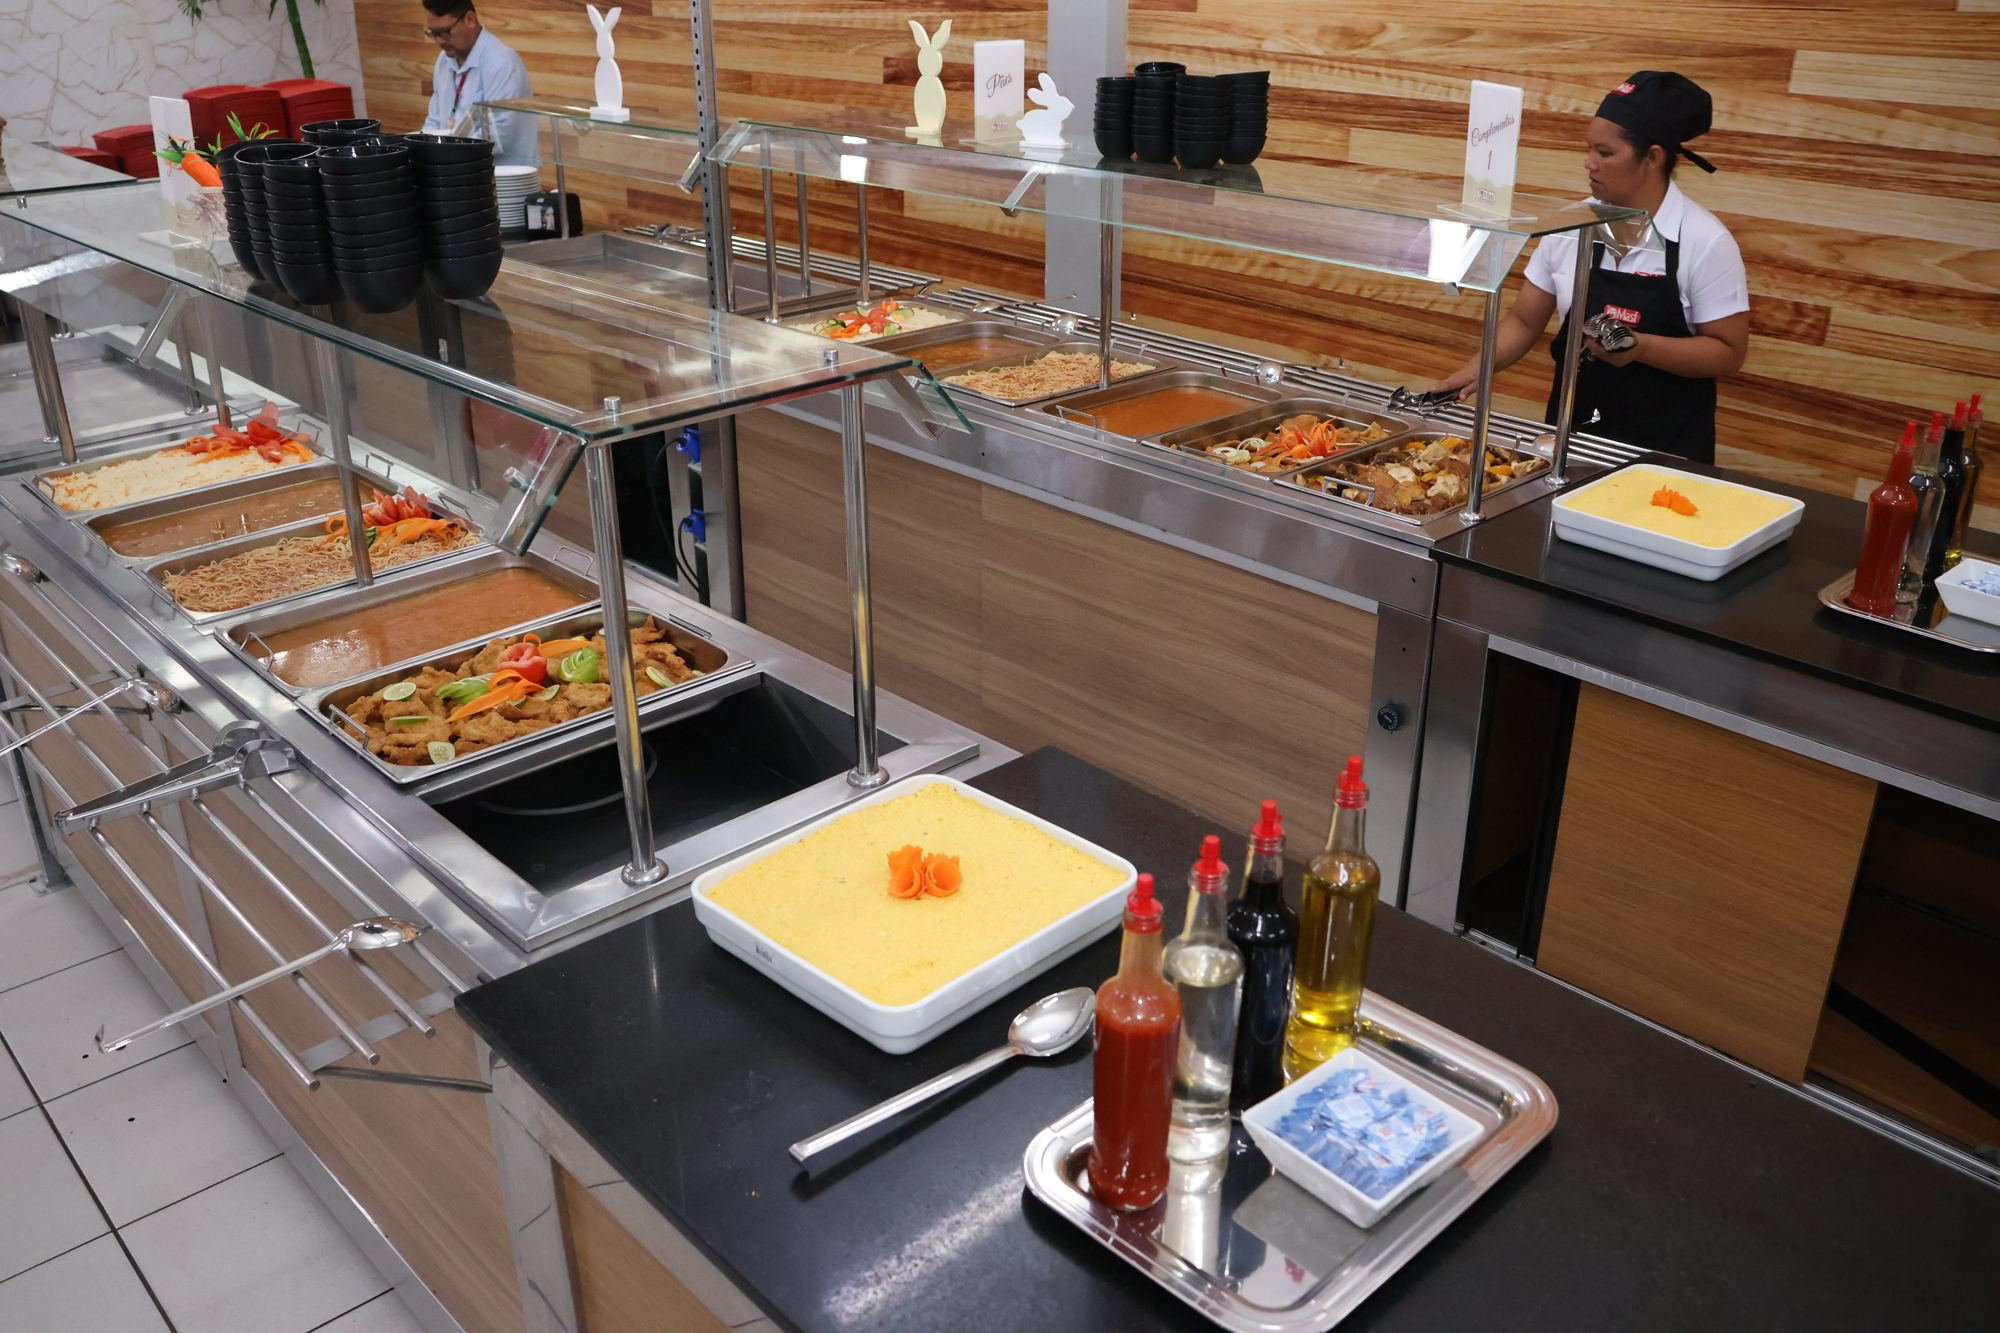
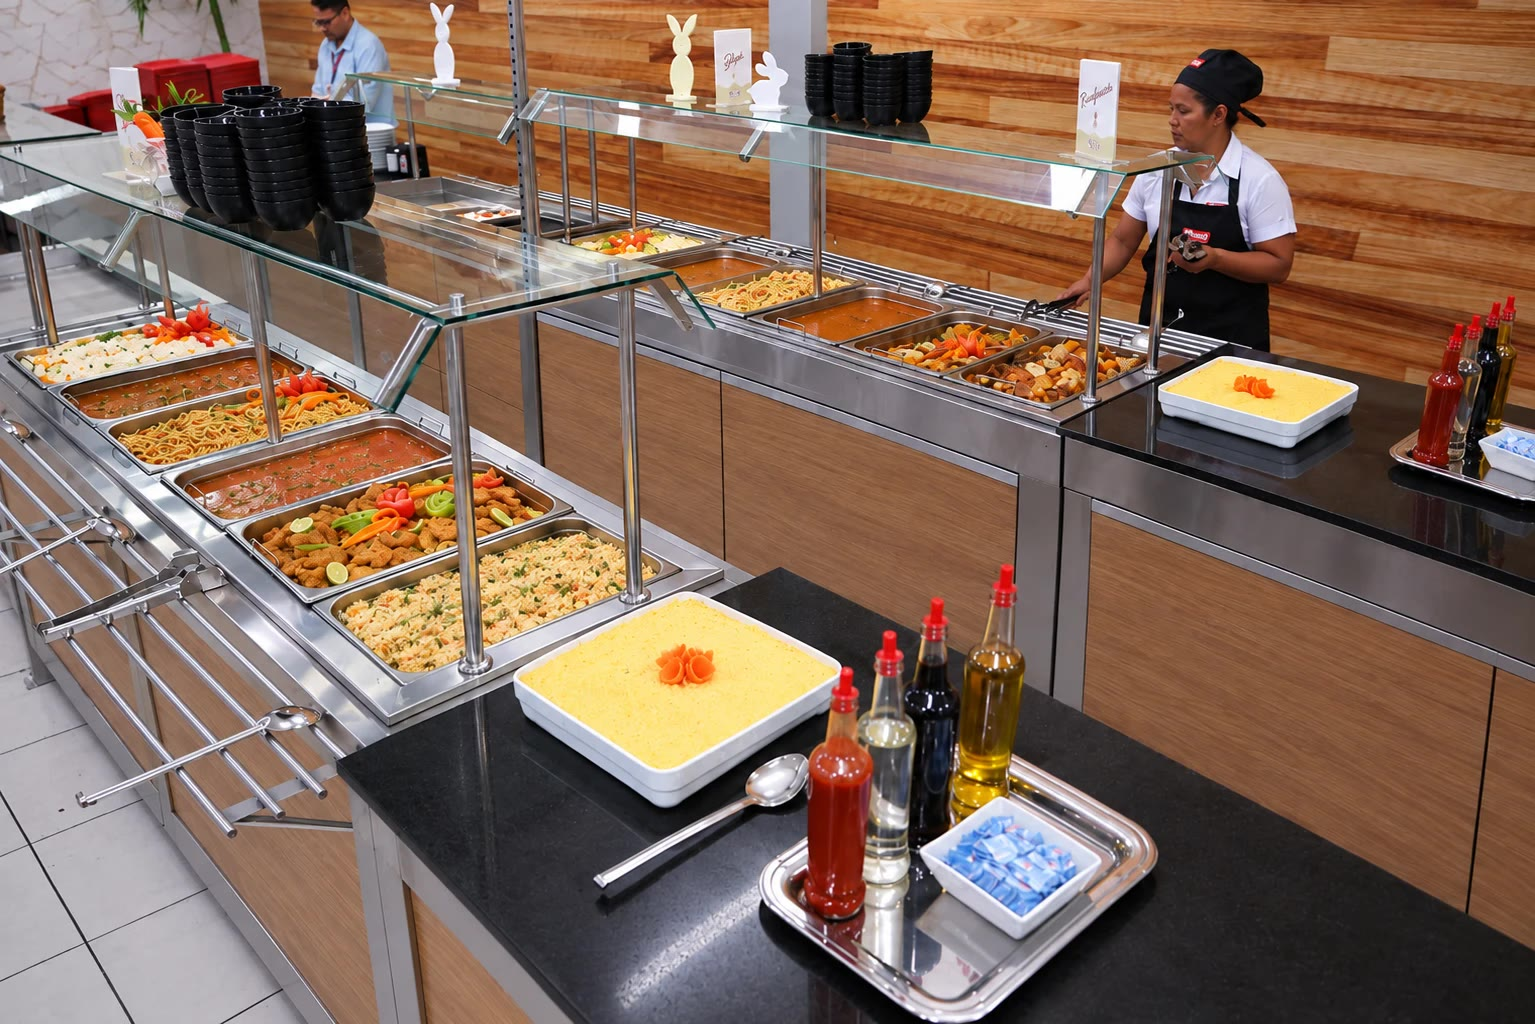
Substitui foto do refeitório por versão sem defeitos

diff --git a/index.html b/index.html
@@ -26,7 +26,7 @@
   <link rel="preconnect" href="https://fonts.googleapis.com">
   <link rel="preconnect" href="https://fonts.gstatic.com" crossorigin>
   <link href="https://fonts.googleapis.com/css2?family=Plus+Jakarta+Sans:wght@400;500;600;700;800&display=swap" rel="stylesheet">
-  <link rel="stylesheet" href="assets/css/style.css?v=mushupci">
+  <link rel="stylesheet" href="assets/css/style.css?v=musi3v0q">
   <link rel="preload" as="image" href="assets/img/preloader-masf.webp">
 
 </head>
@@ -89,7 +89,7 @@
         </div>
         <div class="hero__media reveal">
           <figure class="hero__photo">
-            <img src="assets/img/refeitorio-masf.jpg" alt="Linha de buffet da MASF em refeitório corporativo, com colaboradora servindo" width="2000" height="1333" fetchpriority="high">
+            <img src="assets/img/refeitorio-masf.jpg?v=2" alt="Linha de buffet da MASF em refeitório corporativo, com colaboradora servindo" width="1535" height="1024" fetchpriority="high">
           </figure>
           <div class="hero__card hero__card--iso">
             <span class="hero__card-icon"><svg viewBox="0 0 24 24" aria-hidden="true"><path d="M12 3l7 3v6c0 4.5-3 7.6-7 9-4-1.4-7-4.5-7-9V6l7-3z"/><path d="M9 12l2 2 4-4"/></svg></span>
@@ -317,7 +317,7 @@
 
     <section class="gallery" aria-label="Fotos da operação MASF">
       <div class="container gallery__grid">
-        <figure class="gallery__item gallery__item--wide reveal"><img src="assets/img/refeitorio-masf.jpg" alt="Refeitório atendido pela MASF" loading="lazy"></figure>
+        <figure class="gallery__item gallery__item--wide reveal"><img src="assets/img/refeitorio-masf.jpg?v=2" alt="Refeitório atendido pela MASF" loading="lazy"></figure>
         <figure class="gallery__item reveal"><img src="assets/img/temperos.jpg" alt="Bandeja de temperos e molhos no buffet" loading="lazy"></figure>
         <figure class="gallery__item reveal"><img src="assets/img/buffet-pratos.jpg" alt="Pratos quentes servidos no buffet" loading="lazy"></figure>
         <figure class="gallery__item gallery__item--wide reveal"><img src="assets/img/buffet-linha.jpg" alt="Linha de buffet completa" loading="lazy"></figure>
@@ -424,6 +424,6 @@
   <button type="button" class="to-top" id="to-top" aria-label="Voltar ao topo"><svg viewBox="0 0 24 24" aria-hidden="true"><path d="M12 19V5M5 12l7-7 7 7"/></svg></button>
   <a href="#" class="wa-float" data-whatsapp-link target="_blank" rel="noopener" aria-label="Falar pelo WhatsApp"><svg viewBox="0 0 32 32" aria-hidden="true"><path d="M16 3a13 13 0 00-11.2 19.6L3 29l6.6-1.7A13 13 0 1016 3zm0 23.7c-2 0-4-.6-5.7-1.6l-.4-.2-3.9 1 1-3.8-.3-.4A10.7 10.7 0 1116 26.7zm5.9-8c-.3-.2-1.9-1-2.2-1-.3-.1-.5-.2-.7.2l-1 1.2c-.2.2-.4.2-.7.1a8.8 8.8 0 01-4.4-3.8c-.3-.6.3-.5 1-1.7.1-.2 0-.4 0-.5l-1-2.4c-.3-.6-.5-.5-.7-.5h-.6c-.2 0-.6.1-.9.4-.3.3-1.2 1.1-1.2 2.8s1.2 3.3 1.4 3.5c.2.2 2.4 3.7 5.8 5.2 2.2.9 3 1 4.1.8.7-.1 1.9-.8 2.2-1.5.3-.8.3-1.4.2-1.5l-.6-.3z"/></svg></a>
 
-  <script src="assets/js/main.js?v=mushupci"></script>
+  <script src="assets/js/main.js?v=musi3v0q"></script>
 </body>
 </html>

diff --git a/_ferramentas/gerar-paginas.js b/_ferramentas/gerar-paginas.js
@@ -346,7 +346,7 @@ write("index.html", head("MASF Refeições | Alimentação Corporativa em Manaus
         </div>
         <div class="hero__media reveal">
           <figure class="hero__photo">
-            <img src="assets/img/refeitorio-masf.jpg" alt="Linha de buffet da MASF em refeitório corporativo, com colaboradora servindo" width="2000" height="1333" fetchpriority="high">
+            <img src="assets/img/refeitorio-masf.jpg?v=2" alt="Linha de buffet da MASF em refeitório corporativo, com colaboradora servindo" width="1535" height="1024" fetchpriority="high">
           </figure>
           <div class="hero__card hero__card--iso">
             <span class="hero__card-icon">${ic("shield")}</span>
@@ -472,7 +472,7 @@ ${CAMPAIGNS.map(([icon, t, d], i) => `          <article class="campaign reveal"
 
     <section class="gallery" aria-label="Fotos da operação MASF">
       <div class="container gallery__grid">
-        <figure class="gallery__item gallery__item--wide reveal"><img src="assets/img/refeitorio-masf.jpg" alt="Refeitório atendido pela MASF" loading="lazy"></figure>
+        <figure class="gallery__item gallery__item--wide reveal"><img src="assets/img/refeitorio-masf.jpg?v=2" alt="Refeitório atendido pela MASF" loading="lazy"></figure>
         <figure class="gallery__item reveal"><img src="assets/img/temperos.jpg" alt="Bandeja de temperos e molhos no buffet" loading="lazy"></figure>
         <figure class="gallery__item reveal"><img src="assets/img/buffet-pratos.jpg" alt="Pratos quentes servidos no buffet" loading="lazy"></figure>
         <figure class="gallery__item gallery__item--wide reveal"><img src="assets/img/buffet-linha.jpg" alt="Linha de buffet completa" loading="lazy"></figure>
@@ -506,7 +506,7 @@ write("sobre.html", head("Quem somos | MASF Refeições", "Conheça a história 
           <p class="reveal">Nosso preparo é artesanal: qualidade e afeto são os principais ingredientes. Nossos profissionais garantem eficiência em produções de grande escala, sem abrir mão do sabor.</p>
         </div>
         <div class="about__media reveal">
-          <img src="assets/img/refeitorio-masf.jpg" alt="Refeitório corporativo atendido pela MASF" loading="lazy">
+          <img src="assets/img/refeitorio-masf.jpg?v=2" alt="Refeitório corporativo atendido pela MASF" loading="lazy">
           <div class="about__stamp"><span>Fundada em</span><strong>21.12.2004</strong></div>
         </div>
       </div>

diff --git a/sobre.html b/sobre.html
@@ -26,7 +26,7 @@
   <link rel="preconnect" href="https://fonts.googleapis.com">
   <link rel="preconnect" href="https://fonts.gstatic.com" crossorigin>
   <link href="https://fonts.googleapis.com/css2?family=Plus+Jakarta+Sans:wght@400;500;600;700;800&display=swap" rel="stylesheet">
-  <link rel="stylesheet" href="assets/css/style.css?v=mushupci">
+  <link rel="stylesheet" href="assets/css/style.css?v=musi3v0q">
   <link rel="preload" as="image" href="assets/img/preloader-masf.webp">
   <script>try{if(sessionStorage.getItem("masf-intro"))document.documentElement.classList.add("no-intro")}catch(e){}</script>
 
@@ -94,7 +94,7 @@
           <p class="reveal">Nosso preparo é artesanal: qualidade e afeto são os principais ingredientes. Nossos profissionais garantem eficiência em produções de grande escala, sem abrir mão do sabor.</p>
         </div>
         <div class="about__media reveal">
-          <img src="assets/img/refeitorio-masf.jpg" alt="Refeitório corporativo atendido pela MASF" loading="lazy">
+          <img src="assets/img/refeitorio-masf.jpg?v=2" alt="Refeitório corporativo atendido pela MASF" loading="lazy">
           <div class="about__stamp"><span>Fundada em</span><strong>21.12.2004</strong></div>
         </div>
       </div>
@@ -287,6 +287,6 @@
   <button type="button" class="to-top" id="to-top" aria-label="Voltar ao topo"><svg viewBox="0 0 24 24" aria-hidden="true"><path d="M12 19V5M5 12l7-7 7 7"/></svg></button>
   <a href="#" class="wa-float" data-whatsapp-link target="_blank" rel="noopener" aria-label="Falar pelo WhatsApp"><svg viewBox="0 0 32 32" aria-hidden="true"><path d="M16 3a13 13 0 00-11.2 19.6L3 29l6.6-1.7A13 13 0 1016 3zm0 23.7c-2 0-4-.6-5.7-1.6l-.4-.2-3.9 1 1-3.8-.3-.4A10.7 10.7 0 1116 26.7zm5.9-8c-.3-.2-1.9-1-2.2-1-.3-.1-.5-.2-.7.2l-1 1.2c-.2.2-.4.2-.7.1a8.8 8.8 0 01-4.4-3.8c-.3-.6.3-.5 1-1.7.1-.2 0-.4 0-.5l-1-2.4c-.3-.6-.5-.5-.7-.5h-.6c-.2 0-.6.1-.9.4-.3.3-1.2 1.1-1.2 2.8s1.2 3.3 1.4 3.5c.2.2 2.4 3.7 5.8 5.2 2.2.9 3 1 4.1.8.7-.1 1.9-.8 2.2-1.5.3-.8.3-1.4.2-1.5l-.6-.3z"/></svg></a>
 
-  <script src="assets/js/main.js?v=mushupci"></script>
+  <script src="assets/js/main.js?v=musi3v0q"></script>
 </body>
 </html>

diff --git a/clientes.html b/clientes.html
@@ -26,7 +26,7 @@
   <link rel="preconnect" href="https://fonts.googleapis.com">
   <link rel="preconnect" href="https://fonts.gstatic.com" crossorigin>
   <link href="https://fonts.googleapis.com/css2?family=Plus+Jakarta+Sans:wght@400;500;600;700;800&display=swap" rel="stylesheet">
-  <link rel="stylesheet" href="assets/css/style.css?v=mushupci">
+  <link rel="stylesheet" href="assets/css/style.css?v=musi3v0q">
   <link rel="preload" as="image" href="assets/img/preloader-masf.webp">
   <script>try{if(sessionStorage.getItem("masf-intro"))document.documentElement.classList.add("no-intro")}catch(e){}</script>
 
@@ -244,6 +244,6 @@
   <button type="button" class="to-top" id="to-top" aria-label="Voltar ao topo"><svg viewBox="0 0 24 24" aria-hidden="true"><path d="M12 19V5M5 12l7-7 7 7"/></svg></button>
   <a href="#" class="wa-float" data-whatsapp-link target="_blank" rel="noopener" aria-label="Falar pelo WhatsApp"><svg viewBox="0 0 32 32" aria-hidden="true"><path d="M16 3a13 13 0 00-11.2 19.6L3 29l6.6-1.7A13 13 0 1016 3zm0 23.7c-2 0-4-.6-5.7-1.6l-.4-.2-3.9 1 1-3.8-.3-.4A10.7 10.7 0 1116 26.7zm5.9-8c-.3-.2-1.9-1-2.2-1-.3-.1-.5-.2-.7.2l-1 1.2c-.2.2-.4.2-.7.1a8.8 8.8 0 01-4.4-3.8c-.3-.6.3-.5 1-1.7.1-.2 0-.4 0-.5l-1-2.4c-.3-.6-.5-.5-.7-.5h-.6c-.2 0-.6.1-.9.4-.3.3-1.2 1.1-1.2 2.8s1.2 3.3 1.4 3.5c.2.2 2.4 3.7 5.8 5.2 2.2.9 3 1 4.1.8.7-.1 1.9-.8 2.2-1.5.3-.8.3-1.4.2-1.5l-.6-.3z"/></svg></a>
 
-  <script src="assets/js/main.js?v=mushupci"></script>
+  <script src="assets/js/main.js?v=musi3v0q"></script>
 </body>
 </html>

diff --git a/contato.html b/contato.html
@@ -26,7 +26,7 @@
   <link rel="preconnect" href="https://fonts.googleapis.com">
   <link rel="preconnect" href="https://fonts.gstatic.com" crossorigin>
   <link href="https://fonts.googleapis.com/css2?family=Plus+Jakarta+Sans:wght@400;500;600;700;800&display=swap" rel="stylesheet">
-  <link rel="stylesheet" href="assets/css/style.css?v=mushupci">
+  <link rel="stylesheet" href="assets/css/style.css?v=musi3v0q">
   <link rel="preload" as="image" href="assets/img/preloader-masf.webp">
   <script>try{if(sessionStorage.getItem("masf-intro"))document.documentElement.classList.add("no-intro")}catch(e){}</script>
 
@@ -239,6 +239,6 @@
   <button type="button" class="to-top" id="to-top" aria-label="Voltar ao topo"><svg viewBox="0 0 24 24" aria-hidden="true"><path d="M12 19V5M5 12l7-7 7 7"/></svg></button>
   <a href="#" class="wa-float" data-whatsapp-link target="_blank" rel="noopener" aria-label="Falar pelo WhatsApp"><svg viewBox="0 0 32 32" aria-hidden="true"><path d="M16 3a13 13 0 00-11.2 19.6L3 29l6.6-1.7A13 13 0 1016 3zm0 23.7c-2 0-4-.6-5.7-1.6l-.4-.2-3.9 1 1-3.8-.3-.4A10.7 10.7 0 1116 26.7zm5.9-8c-.3-.2-1.9-1-2.2-1-.3-.1-.5-.2-.7.2l-1 1.2c-.2.2-.4.2-.7.1a8.8 8.8 0 01-4.4-3.8c-.3-.6.3-.5 1-1.7.1-.2 0-.4 0-.5l-1-2.4c-.3-.6-.5-.5-.7-.5h-.6c-.2 0-.6.1-.9.4-.3.3-1.2 1.1-1.2 2.8s1.2 3.3 1.4 3.5c.2.2 2.4 3.7 5.8 5.2 2.2.9 3 1 4.1.8.7-.1 1.9-.8 2.2-1.5.3-.8.3-1.4.2-1.5l-.6-.3z"/></svg></a>
 
-  <script src="assets/js/main.js?v=mushupci"></script>
+  <script src="assets/js/main.js?v=musi3v0q"></script>
 </body>
 </html>

diff --git a/qualidade.html b/qualidade.html
@@ -26,7 +26,7 @@
   <link rel="preconnect" href="https://fonts.googleapis.com">
   <link rel="preconnect" href="https://fonts.gstatic.com" crossorigin>
   <link href="https://fonts.googleapis.com/css2?family=Plus+Jakarta+Sans:wght@400;500;600;700;800&display=swap" rel="stylesheet">
-  <link rel="stylesheet" href="assets/css/style.css?v=mushupci">
+  <link rel="stylesheet" href="assets/css/style.css?v=musi3v0q">
   <link rel="preload" as="image" href="assets/img/preloader-masf.webp">
   <script>try{if(sessionStorage.getItem("masf-intro"))document.documentElement.classList.add("no-intro")}catch(e){}</script>
 
@@ -239,6 +239,6 @@
   <button type="button" class="to-top" id="to-top" aria-label="Voltar ao topo"><svg viewBox="0 0 24 24" aria-hidden="true"><path d="M12 19V5M5 12l7-7 7 7"/></svg></button>
   <a href="#" class="wa-float" data-whatsapp-link target="_blank" rel="noopener" aria-label="Falar pelo WhatsApp"><svg viewBox="0 0 32 32" aria-hidden="true"><path d="M16 3a13 13 0 00-11.2 19.6L3 29l6.6-1.7A13 13 0 1016 3zm0 23.7c-2 0-4-.6-5.7-1.6l-.4-.2-3.9 1 1-3.8-.3-.4A10.7 10.7 0 1116 26.7zm5.9-8c-.3-.2-1.9-1-2.2-1-.3-.1-.5-.2-.7.2l-1 1.2c-.2.2-.4.2-.7.1a8.8 8.8 0 01-4.4-3.8c-.3-.6.3-.5 1-1.7.1-.2 0-.4 0-.5l-1-2.4c-.3-.6-.5-.5-.7-.5h-.6c-.2 0-.6.1-.9.4-.3.3-1.2 1.1-1.2 2.8s1.2 3.3 1.4 3.5c.2.2 2.4 3.7 5.8 5.2 2.2.9 3 1 4.1.8.7-.1 1.9-.8 2.2-1.5.3-.8.3-1.4.2-1.5l-.6-.3z"/></svg></a>
 
-  <script src="assets/js/main.js?v=mushupci"></script>
+  <script src="assets/js/main.js?v=musi3v0q"></script>
 </body>
 </html>

diff --git a/responsabilidade.html b/responsabilidade.html
@@ -26,7 +26,7 @@
   <link rel="preconnect" href="https://fonts.googleapis.com">
   <link rel="preconnect" href="https://fonts.gstatic.com" crossorigin>
   <link href="https://fonts.googleapis.com/css2?family=Plus+Jakarta+Sans:wght@400;500;600;700;800&display=swap" rel="stylesheet">
-  <link rel="stylesheet" href="assets/css/style.css?v=mushupci">
+  <link rel="stylesheet" href="assets/css/style.css?v=musi3v0q">
   <link rel="preload" as="image" href="assets/img/preloader-masf.webp">
   <script>try{if(sessionStorage.getItem("masf-intro"))document.documentElement.classList.add("no-intro")}catch(e){}</script>
 
@@ -203,6 +203,6 @@
   <button type="button" class="to-top" id="to-top" aria-label="Voltar ao topo"><svg viewBox="0 0 24 24" aria-hidden="true"><path d="M12 19V5M5 12l7-7 7 7"/></svg></button>
   <a href="#" class="wa-float" data-whatsapp-link target="_blank" rel="noopener" aria-label="Falar pelo WhatsApp"><svg viewBox="0 0 32 32" aria-hidden="true"><path d="M16 3a13 13 0 00-11.2 19.6L3 29l6.6-1.7A13 13 0 1016 3zm0 23.7c-2 0-4-.6-5.7-1.6l-.4-.2-3.9 1 1-3.8-.3-.4A10.7 10.7 0 1116 26.7zm5.9-8c-.3-.2-1.9-1-2.2-1-.3-.1-.5-.2-.7.2l-1 1.2c-.2.2-.4.2-.7.1a8.8 8.8 0 01-4.4-3.8c-.3-.6.3-.5 1-1.7.1-.2 0-.4 0-.5l-1-2.4c-.3-.6-.5-.5-.7-.5h-.6c-.2 0-.6.1-.9.4-.3.3-1.2 1.1-1.2 2.8s1.2 3.3 1.4 3.5c.2.2 2.4 3.7 5.8 5.2 2.2.9 3 1 4.1.8.7-.1 1.9-.8 2.2-1.5.3-.8.3-1.4.2-1.5l-.6-.3z"/></svg></a>
 
-  <script src="assets/js/main.js?v=mushupci"></script>
+  <script src="assets/js/main.js?v=musi3v0q"></script>
 </body>
 </html>

diff --git a/servicos.html b/servicos.html
@@ -26,7 +26,7 @@
   <link rel="preconnect" href="https://fonts.googleapis.com">
   <link rel="preconnect" href="https://fonts.gstatic.com" crossorigin>
   <link href="https://fonts.googleapis.com/css2?family=Plus+Jakarta+Sans:wght@400;500;600;700;800&display=swap" rel="stylesheet">
-  <link rel="stylesheet" href="assets/css/style.css?v=mushupci">
+  <link rel="stylesheet" href="assets/css/style.css?v=musi3v0q">
   <link rel="preload" as="image" href="assets/img/preloader-masf.webp">
   <script>try{if(sessionStorage.getItem("masf-intro"))document.documentElement.classList.add("no-intro")}catch(e){}</script>
 
@@ -354,6 +354,6 @@
   <button type="button" class="to-top" id="to-top" aria-label="Voltar ao topo"><svg viewBox="0 0 24 24" aria-hidden="true"><path d="M12 19V5M5 12l7-7 7 7"/></svg></button>
   <a href="#" class="wa-float" data-whatsapp-link target="_blank" rel="noopener" aria-label="Falar pelo WhatsApp"><svg viewBox="0 0 32 32" aria-hidden="true"><path d="M16 3a13 13 0 00-11.2 19.6L3 29l6.6-1.7A13 13 0 1016 3zm0 23.7c-2 0-4-.6-5.7-1.6l-.4-.2-3.9 1 1-3.8-.3-.4A10.7 10.7 0 1116 26.7zm5.9-8c-.3-.2-1.9-1-2.2-1-.3-.1-.5-.2-.7.2l-1 1.2c-.2.2-.4.2-.7.1a8.8 8.8 0 01-4.4-3.8c-.3-.6.3-.5 1-1.7.1-.2 0-.4 0-.5l-1-2.4c-.3-.6-.5-.5-.7-.5h-.6c-.2 0-.6.1-.9.4-.3.3-1.2 1.1-1.2 2.8s1.2 3.3 1.4 3.5c.2.2 2.4 3.7 5.8 5.2 2.2.9 3 1 4.1.8.7-.1 1.9-.8 2.2-1.5.3-.8.3-1.4.2-1.5l-.6-.3z"/></svg></a>
 
-  <script src="assets/js/main.js?v=mushupci"></script>
+  <script src="assets/js/main.js?v=musi3v0q"></script>
 </body>
 </html>
